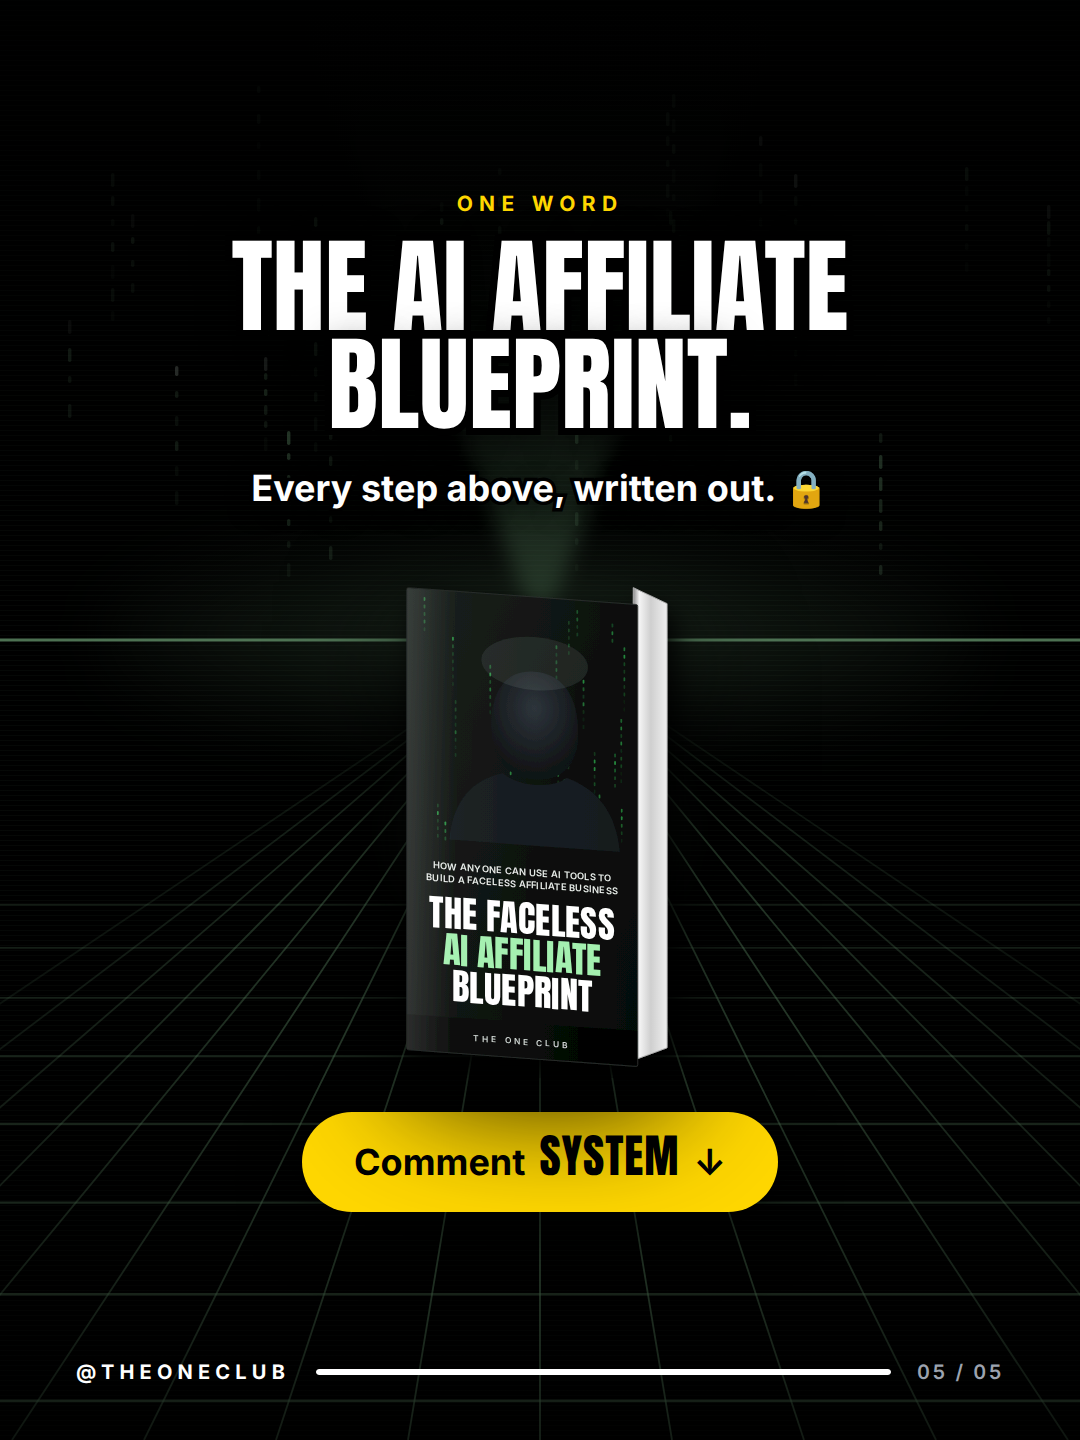
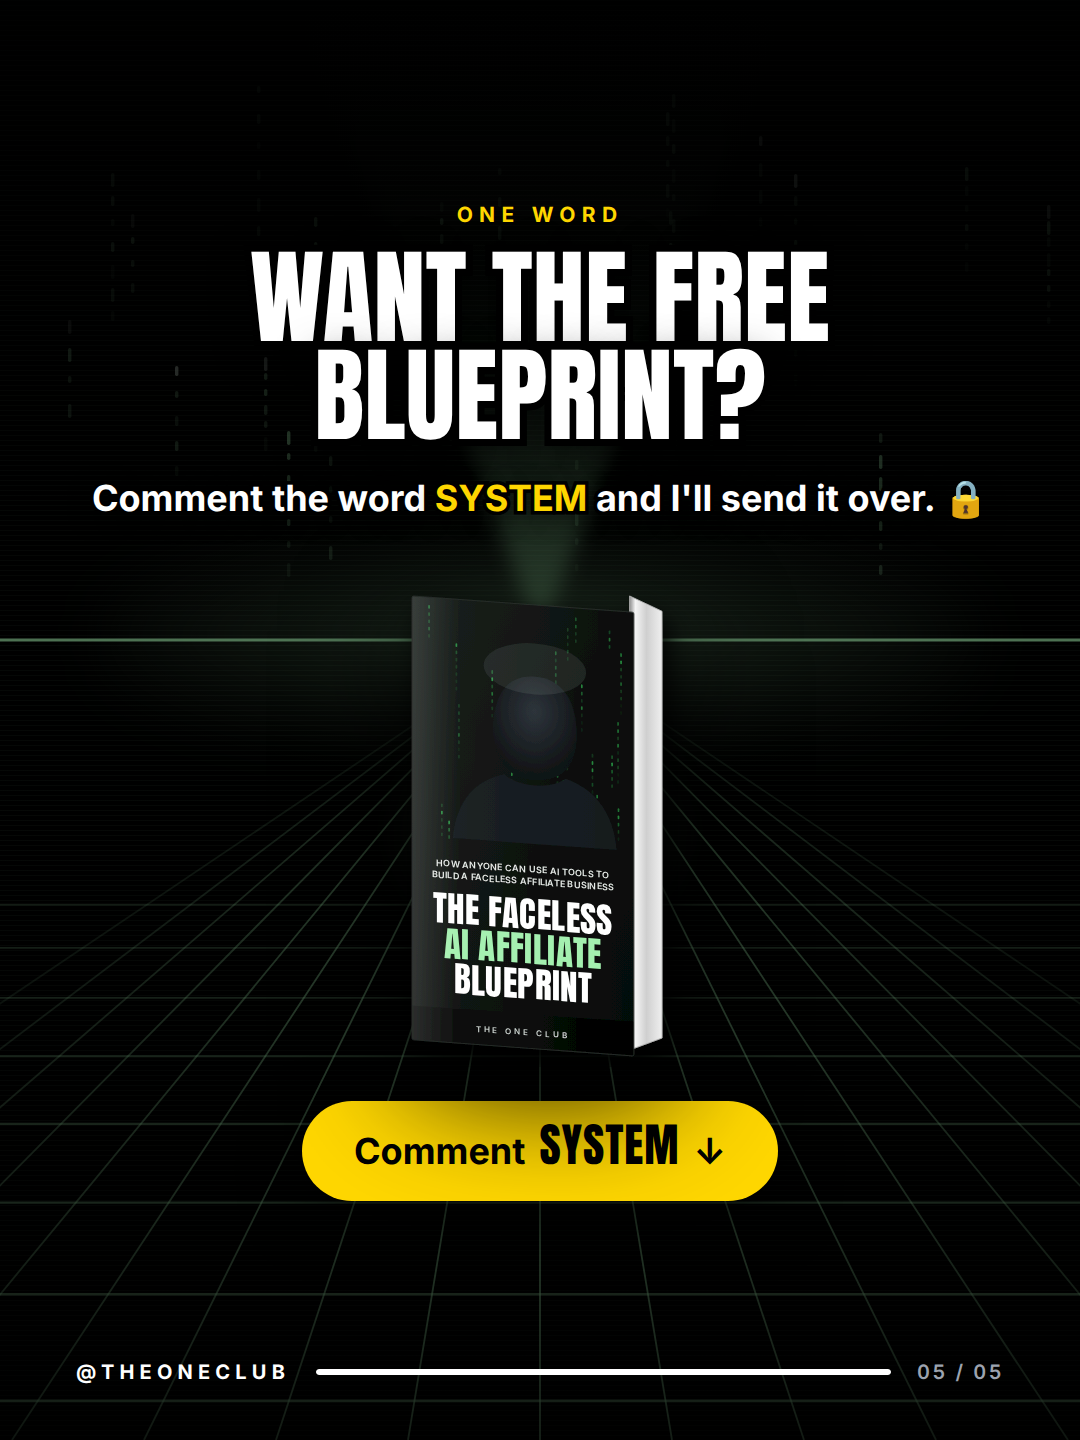
CTA: "comment the word SYSTEM and I'll send you the free blueprint"
- Headline is the offer, the supporting line carries the instruction verbatim,
  the pill repeats the word
- Caption opens with the same sentence
- Compliance now accepts "comment the word X" as well as "comment X" in the
  above-the-fold check. That is how people actually write the instruction, and
  the old regex would have failed this caption
- CTA copy can run to 920px so the instruction doesn't orphan its last two words

The CTA says three rotation words out loud — SYSTEM, BLUEPRINT and FREE — so
manychat.md now spells out that every word on a CTA slide needs to be an alias
on the same automation, not just the trigger.

Claude-Session: https://claude.ai/code/session_014X2RWXJoqqNcRyFTvtx1Y2

Changed region(s): [[0.0917, 0.125, 0.9167, 0.375], [0.275, 0.4062, 0.7333, 0.8438]]

diff --git a/oneclub-carousel-studio/output/2026-08-02-best-ai-model-for-beginners/grid.html b/oneclub-carousel-studio/output/2026-08-02-best-ai-model-for-beginners/grid.html
@@ -52,7 +52,7 @@
 <figure class="thumb"><div class="hold"><iframe src="html/slide-05.html" scrolling="no" loading="eager"></iframe></div><figcaption>05 · cta</figcaption></figure></div>
 
   <h2>Caption</h2>
-  <div class="caption">Comment SYSTEM and I'll send you The AI Affiliate Blueprint — free. 🔒
+  <div class="caption">Comment the word SYSTEM and I'll send you the free AI Affiliate Blueprint. 🔒
 
 Faceless AI affiliate marketing is the easiest model to start as a beginner, and it's not close.
 
@@ -73,6 +73,6 @@ Comment SYSTEM and the full blueprint is in your DMs.</div>
   <div class="tags">#affiliatemarketing #facelessmarketing #aiincome #aitools #bestsidehustle #onlinebusinessforbeginners #contentautomation #recurringincome #sidehustleideas #digitalmarketing #theoneclub</div>
 
   <h2>QA</h2>
-  <table><tr class="warn"><td>WARN</td><td>slide:cta</td><td>trigger</td><td>CTA slide also contains rotation word(s) BLUEPRINT — ambiguous triggers split ManyChat attribution.</td></tr></table>
+  <table><tr class="warn"><td>WARN</td><td>slide:cta</td><td>trigger</td><td>CTA slide also contains rotation word(s) FREE, BLUEPRINT — ambiguous triggers split ManyChat attribution.</td></tr></table>
 </body>
 </html>

diff --git a/oneclub-carousel-studio/output/2026-08-02-best-ai-model-for-beginners/html/slide-05.html b/oneclub-carousel-studio/output/2026-08-02-best-ai-model-for-beginners/html/slide-05.html
@@ -13,9 +13,9 @@
     <div class="scrim"></div>
     <main class="body">
       <div class="kicker">One word</div>
-      <h1 class="stacked"><span class="ln">The AI Affiliate</span><span class="ln">Blueprint.</span></h1>
-      <p class="copy">Every step above, written out. 🔒</p>
-      <div class="product" style="--product-w:400px"><div class="shot" style="background-image:url('../../../assets/ebook-blueprint.svg')"></div></div>
+      <h1 class="stacked"><span class="ln">Want the free</span><span class="ln">blueprint?</span></h1>
+      <p class="copy">Comment the word <span class="hlY">SYSTEM</span> and I'll send it over. 🔒</p>
+      <div class="product" style="--product-w:384px"><div class="shot" style="background-image:url('../../../assets/ebook-blueprint.svg')"></div></div>
       <div class="pill"><span>Comment</span><span class="word">SYSTEM</span><span>↓</span></div>
     </main>
     <footer class="foot">

diff --git a/oneclub-carousel-studio/ds-bundle-morphe/carousel.css b/oneclub-carousel-studio/ds-bundle-morphe/carousel.css
@@ -139,7 +139,7 @@ h2.stacked .ln { display: block; white-space: nowrap; }
 .slide--cta .copy {
   color: var(--white);
   font-weight: 700;
-  max-width: 840px;
+  max-width: 920px;
   -webkit-text-stroke: 7px #000;
   paint-order: stroke fill;
   text-shadow: 0 6px 24px rgba(0, 0, 0, 0.7);

diff --git a/oneclub-carousel-studio/automation/manychat.md b/oneclub-carousel-studio/automation/manychat.md
@@ -13,6 +13,16 @@ same trigger.
 | Keyword match | `EBOOK` — exact word, case-insensitive |
 | Also match | Common misfires: `ebook`, `e-book`, `e book`, `EBOOOK` |
 
+**Alias every word on the CTA slide.** The beginner deck's CTA says three
+rotation words out loud — SYSTEM (the trigger), BLUEPRINT (the asset) and FREE
+(the offer). All three need to be aliases on the same automation or the leads
+that type the wrong one land nowhere. This is the rule, not the exception:
+
+```
+trigger:  SYSTEM
+aliases:  BLUEPRINT · FREE · "the system" · "sytem"
+```
+
 **Alias the asset's own name.** If the slide says "I'll send you The AI Affiliate
 Blueprint" but the trigger is `SYSTEM`, a good share of people will type
 BLUEPRINT — they're repeating what they just read. Add every word that appears
